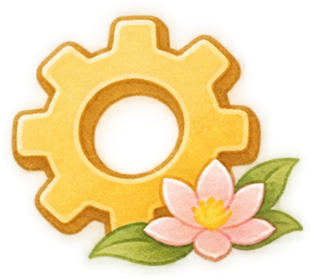
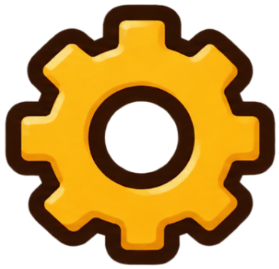
Update

diff --git a/src/components/BottomTabBar.tsx b/src/components/BottomTabBar.tsx
@@ -14,9 +14,8 @@ const TABS: Tab[] = [
 
 export const TAB_SCREENS: Screen[] = TABS.map((t) => t.key);
 
-// A floating, rounded cream bar with the current tab in a soft yellow pill (ChatGPT's redraw, 2026-11-07) —
-// replaces the flat white slab with a grey rule, which looked out of place on the painted map. The icons are
-// ChatGPT's painted gold-and-lotus set (2026-11-08); the tabs you're not on are faded so the current one stands out.
+// A floating, rounded white bar with the current tab in a solid yellow pill, bold black labels and flat gold icons with
+// dark outlines (ChatGPT's nav pass the user shared, 2026-11-08) — the earlier painted icons were too soft to read.
 // `backdrop` is the colour behind the bar (the map's cream on the Path tab), and the bar overlaps the screen above a little.
 export function BottomTabBar({ active, onSelect, backdrop = colors.white }: { active: Screen; onSelect: (screen: Screen) => void; backdrop?: string }) {
   const insets = useSafeAreaInsets();
@@ -32,8 +31,8 @@ export function BottomTabBar({ active, onSelect, backdrop = colors.white }: { ac
               style={[styles.tab, isActive && styles.tabActive]}
               accessibilityLabel={label}
             >
-              <Image source={icon} style={[styles.icon, !isActive && styles.iconIdle]} resizeMode="contain" />
-              <Text style={[styles.label, isActive && styles.labelActive]}>{label}</Text>
+              <Image source={icon} style={styles.icon} resizeMode="contain" />
+              <Text style={styles.label}>{label}</Text>
             </Pressable>
           );
         })}
@@ -46,21 +45,19 @@ const styles = StyleSheet.create({
   wrap: { paddingHorizontal: 14, paddingTop: 6, marginTop: -22 },
   bar: {
     flexDirection: 'row',
-    backgroundColor: 'rgba(255,250,238,0.96)',
+    backgroundColor: colors.white,
     borderRadius: 30,
     padding: 6,
     borderWidth: 1,
-    borderColor: 'rgba(166,124,0,0.12)',
+    borderColor: colors.neutral300,
     shadowColor: '#7a5c00',
     shadowOffset: { width: 0, height: 6 },
-    shadowOpacity: 0.12,
+    shadowOpacity: 0.08,
     shadowRadius: 18,
     elevation: 6,
   },
   tab: { flex: 1, minHeight: 60, alignItems: 'center', justifyContent: 'center', gap: 3, borderRadius: 24 },
-  tabActive: { backgroundColor: colors.accent100 },
-  icon: { width: 36, height: 30 },
-  iconIdle: { opacity: 0.75 },
-  label: { fontFamily: fonts.bodySemibold, fontSize: 11, letterSpacing: 0.2, color: colors.text }, // black, not gold (user, 2026-11-08)
-  labelActive: { fontFamily: fonts.heading },
+  tabActive: { backgroundColor: colors.accent },
+  icon: { width: 34, height: 30 },
+  label: { fontFamily: fonts.heading, fontSize: 12, letterSpacing: 0.2, color: colors.text }, // bold black (user, 2026-11-08)
 });
